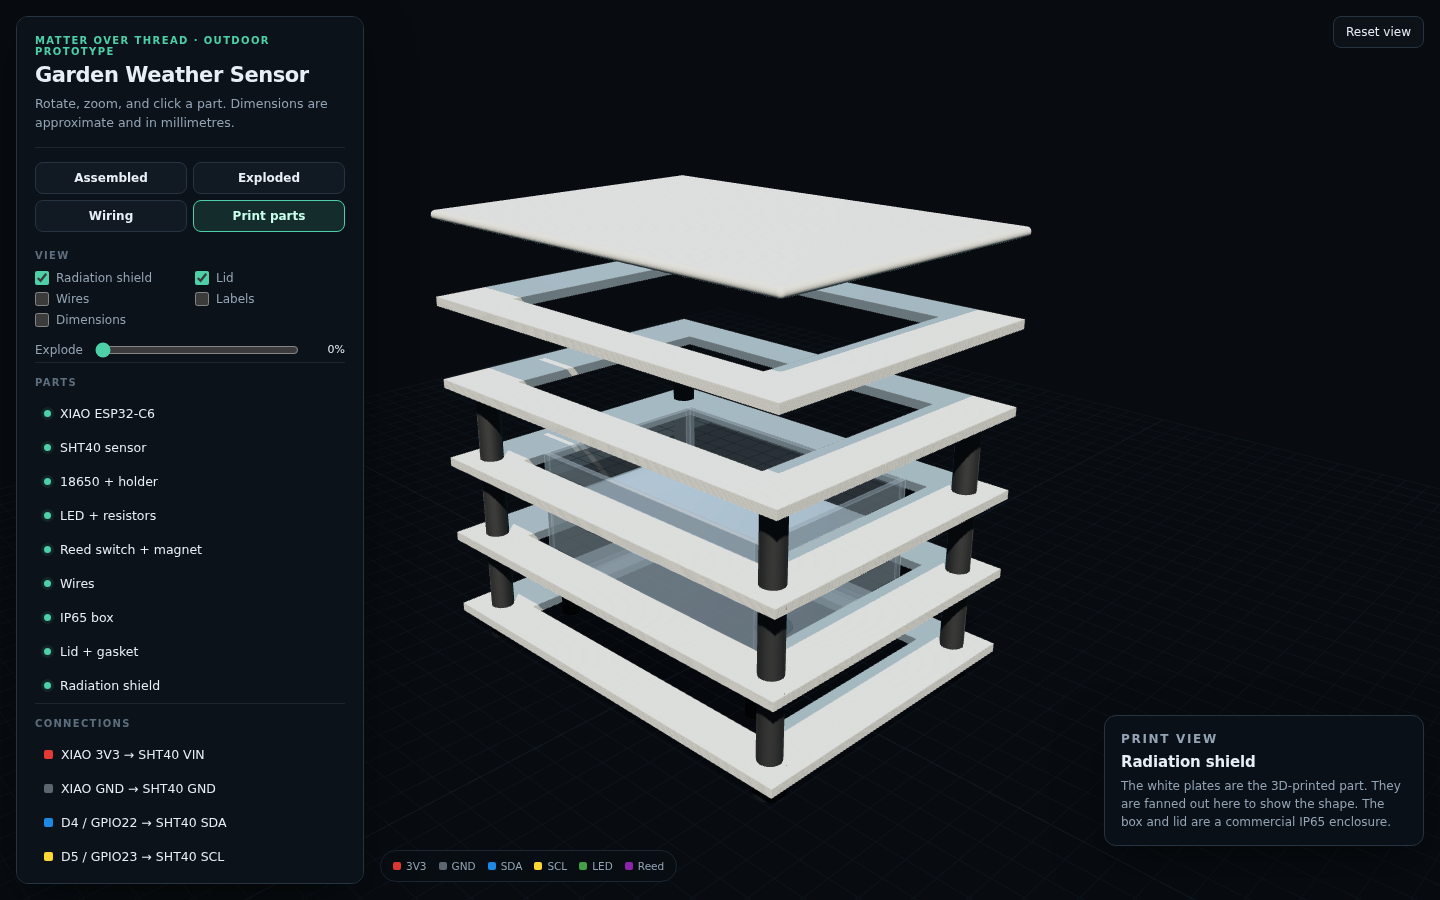
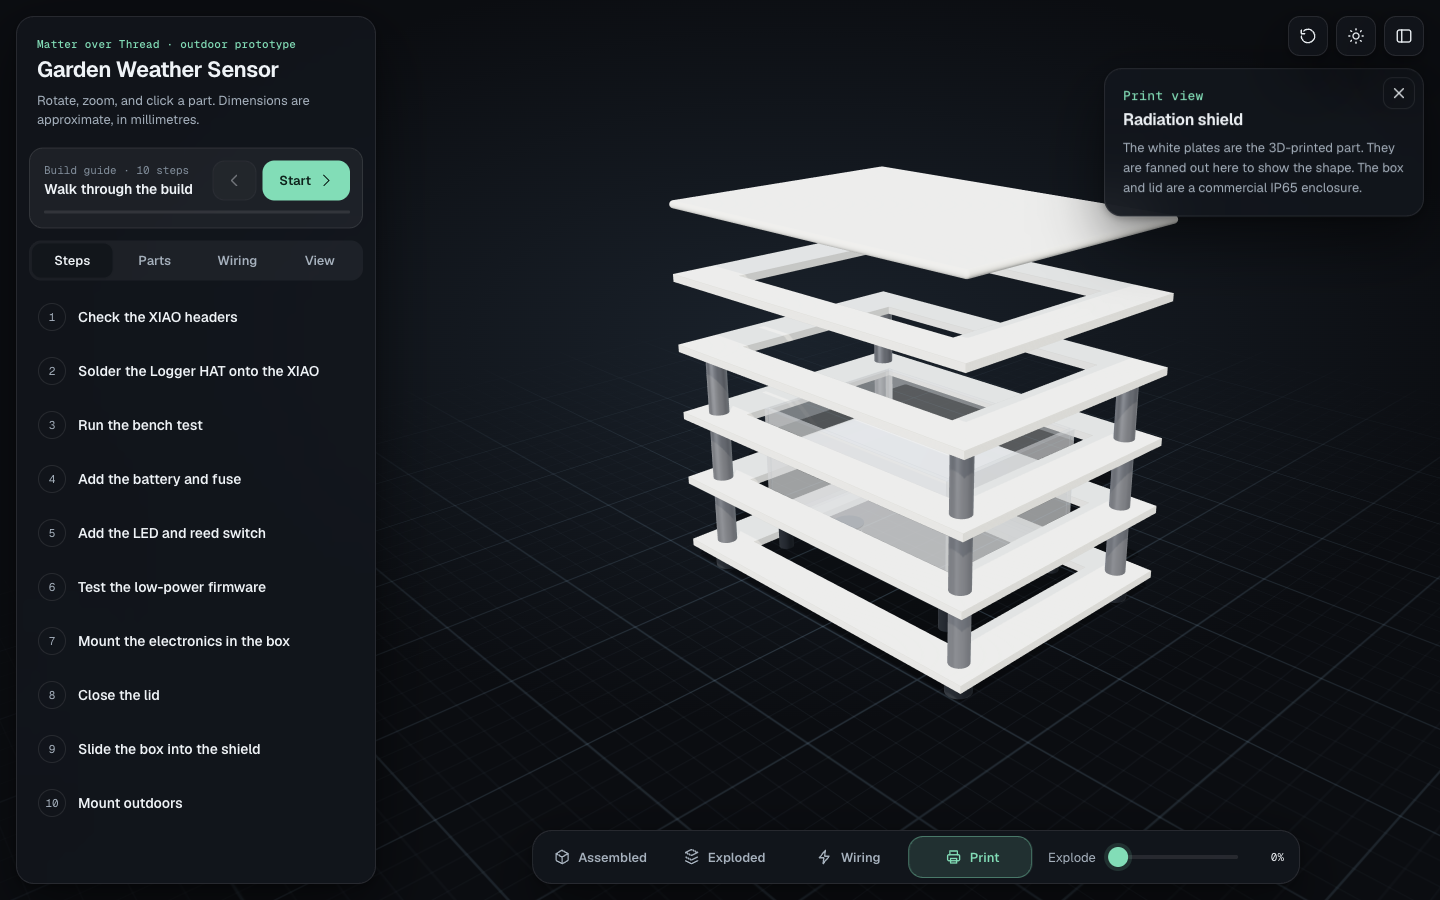
docs(viewer): document the new controls and refresh screenshots
Describe the build guide, themes, shortcuts, touch gestures and URL state, list the new source files, and regenerate the screenshots from the redesigned UI.

diff --git a/viewer/README.md b/viewer/README.md
@@ -39,12 +39,28 @@ runtime.
 
 ## Controls
 
-- **Drag** to rotate.
-- **Scroll** to zoom.
-- **Right-drag** to pan.
-- **Click a part** in the 3D view or in the Parts list to select it.
-- **Click a connection** to highlight those wires.
-- **Click an assembly step** to move to the relevant view.
+The same controls work on desktop, tablet, and phone.
+
+- **Drag** to rotate, **scroll** or **pinch** to zoom, **right-drag** or
+  **two-finger drag** to pan.
+- **Click or tap a part** in the 3D view, or in the **Parts** tab, to select it.
+- **Click or tap a connection** to highlight just those wires.
+- **Build guide**: press **Start** / **Next** to walk through the assembly
+  steps. The camera moves to each part and the details appear in a card.
+- **Mode switch** (bottom): Assembled, Exploded, Wiring, Print parts.
+- **View tab**: layer switches, the Explode slider, and camera buttons for
+  rotate and zoom (a one-tap alternative to dragging and pinching).
+- **Theme**: the sun/moon button switches between dark and light. The system
+  preference is used until you choose.
+- The view is stored in the address (`#mode=wiring&part=hat&step=3`), so a
+  link opens the same view.
+
+On a phone the panel is a bottom sheet. Drag its handle, or tap a tab, to
+expand it.
+
+Keyboard shortcuts: `1`–`4` switch view, `E` explode, `←` `→` previous and
+next step, `+` `-` zoom, `R` reset, `P` show or hide the panel, `Esc` clears
+the selection.
 
 ## The four views
 
@@ -55,8 +71,8 @@ runtime.
 | **Wiring** | The box in x-ray mode, with the colour-coded wires |
 | **Print parts** | The printed radiation shield, fanned out to show its shape |
 
-The **Explode** slider moves between assembled and exploded. The checkboxes
-turn the shield, lid, wires, labels, and dimensions on or off.
+The **Explode** slider moves between assembled and exploded. The View tab has
+switches for the shield, lid, wires, labels, and dimensions.
 
 ## Screenshots
 
@@ -125,6 +141,11 @@ viewer/
     ├── dimensions.ts  dimension lines
     ├── geometry.ts    reusable geometry helpers
     ├── materials.ts   colours and materials
+    ├── ground.ts      faded floor grid
+    ├── sheet.ts       phone bottom sheet
+    ├── theme.ts       dark and light theme
+    ├── url-state.ts   view stored in the address
+    ├── part-swatches.ts  colour chips in the Parts list
     ├── styles.css     UI styling
     └── types.ts       shared types
 ```
